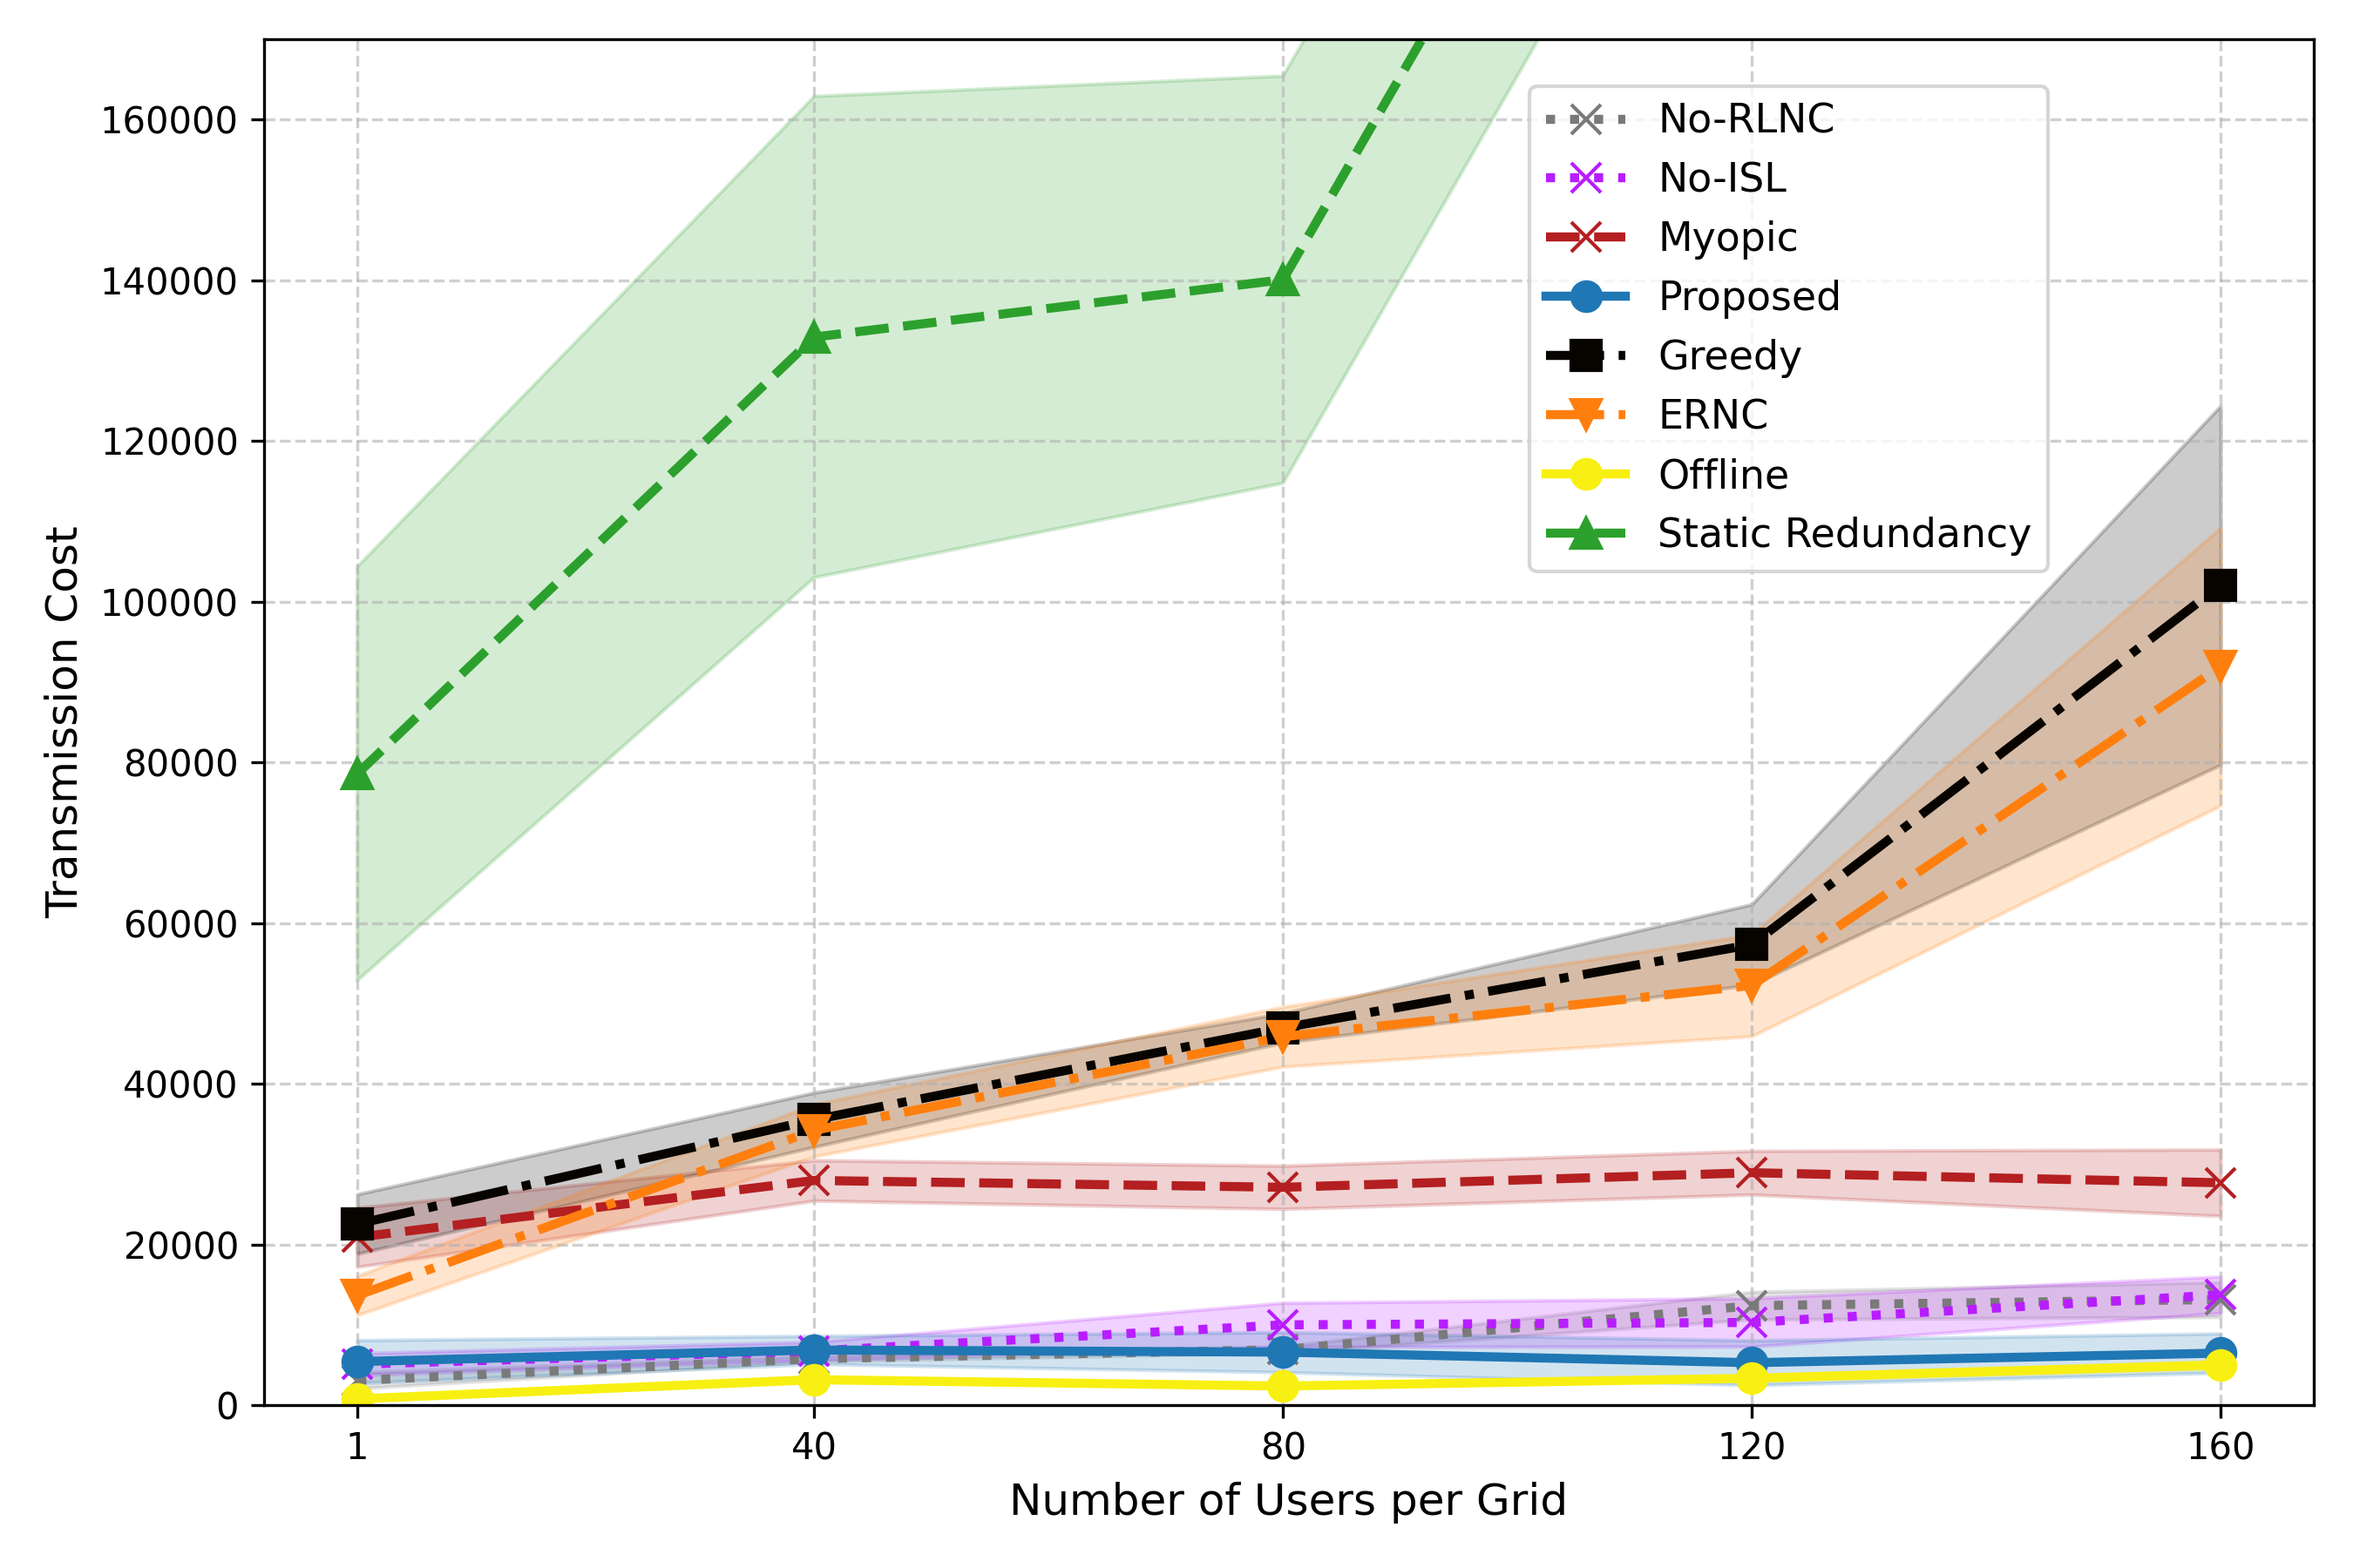
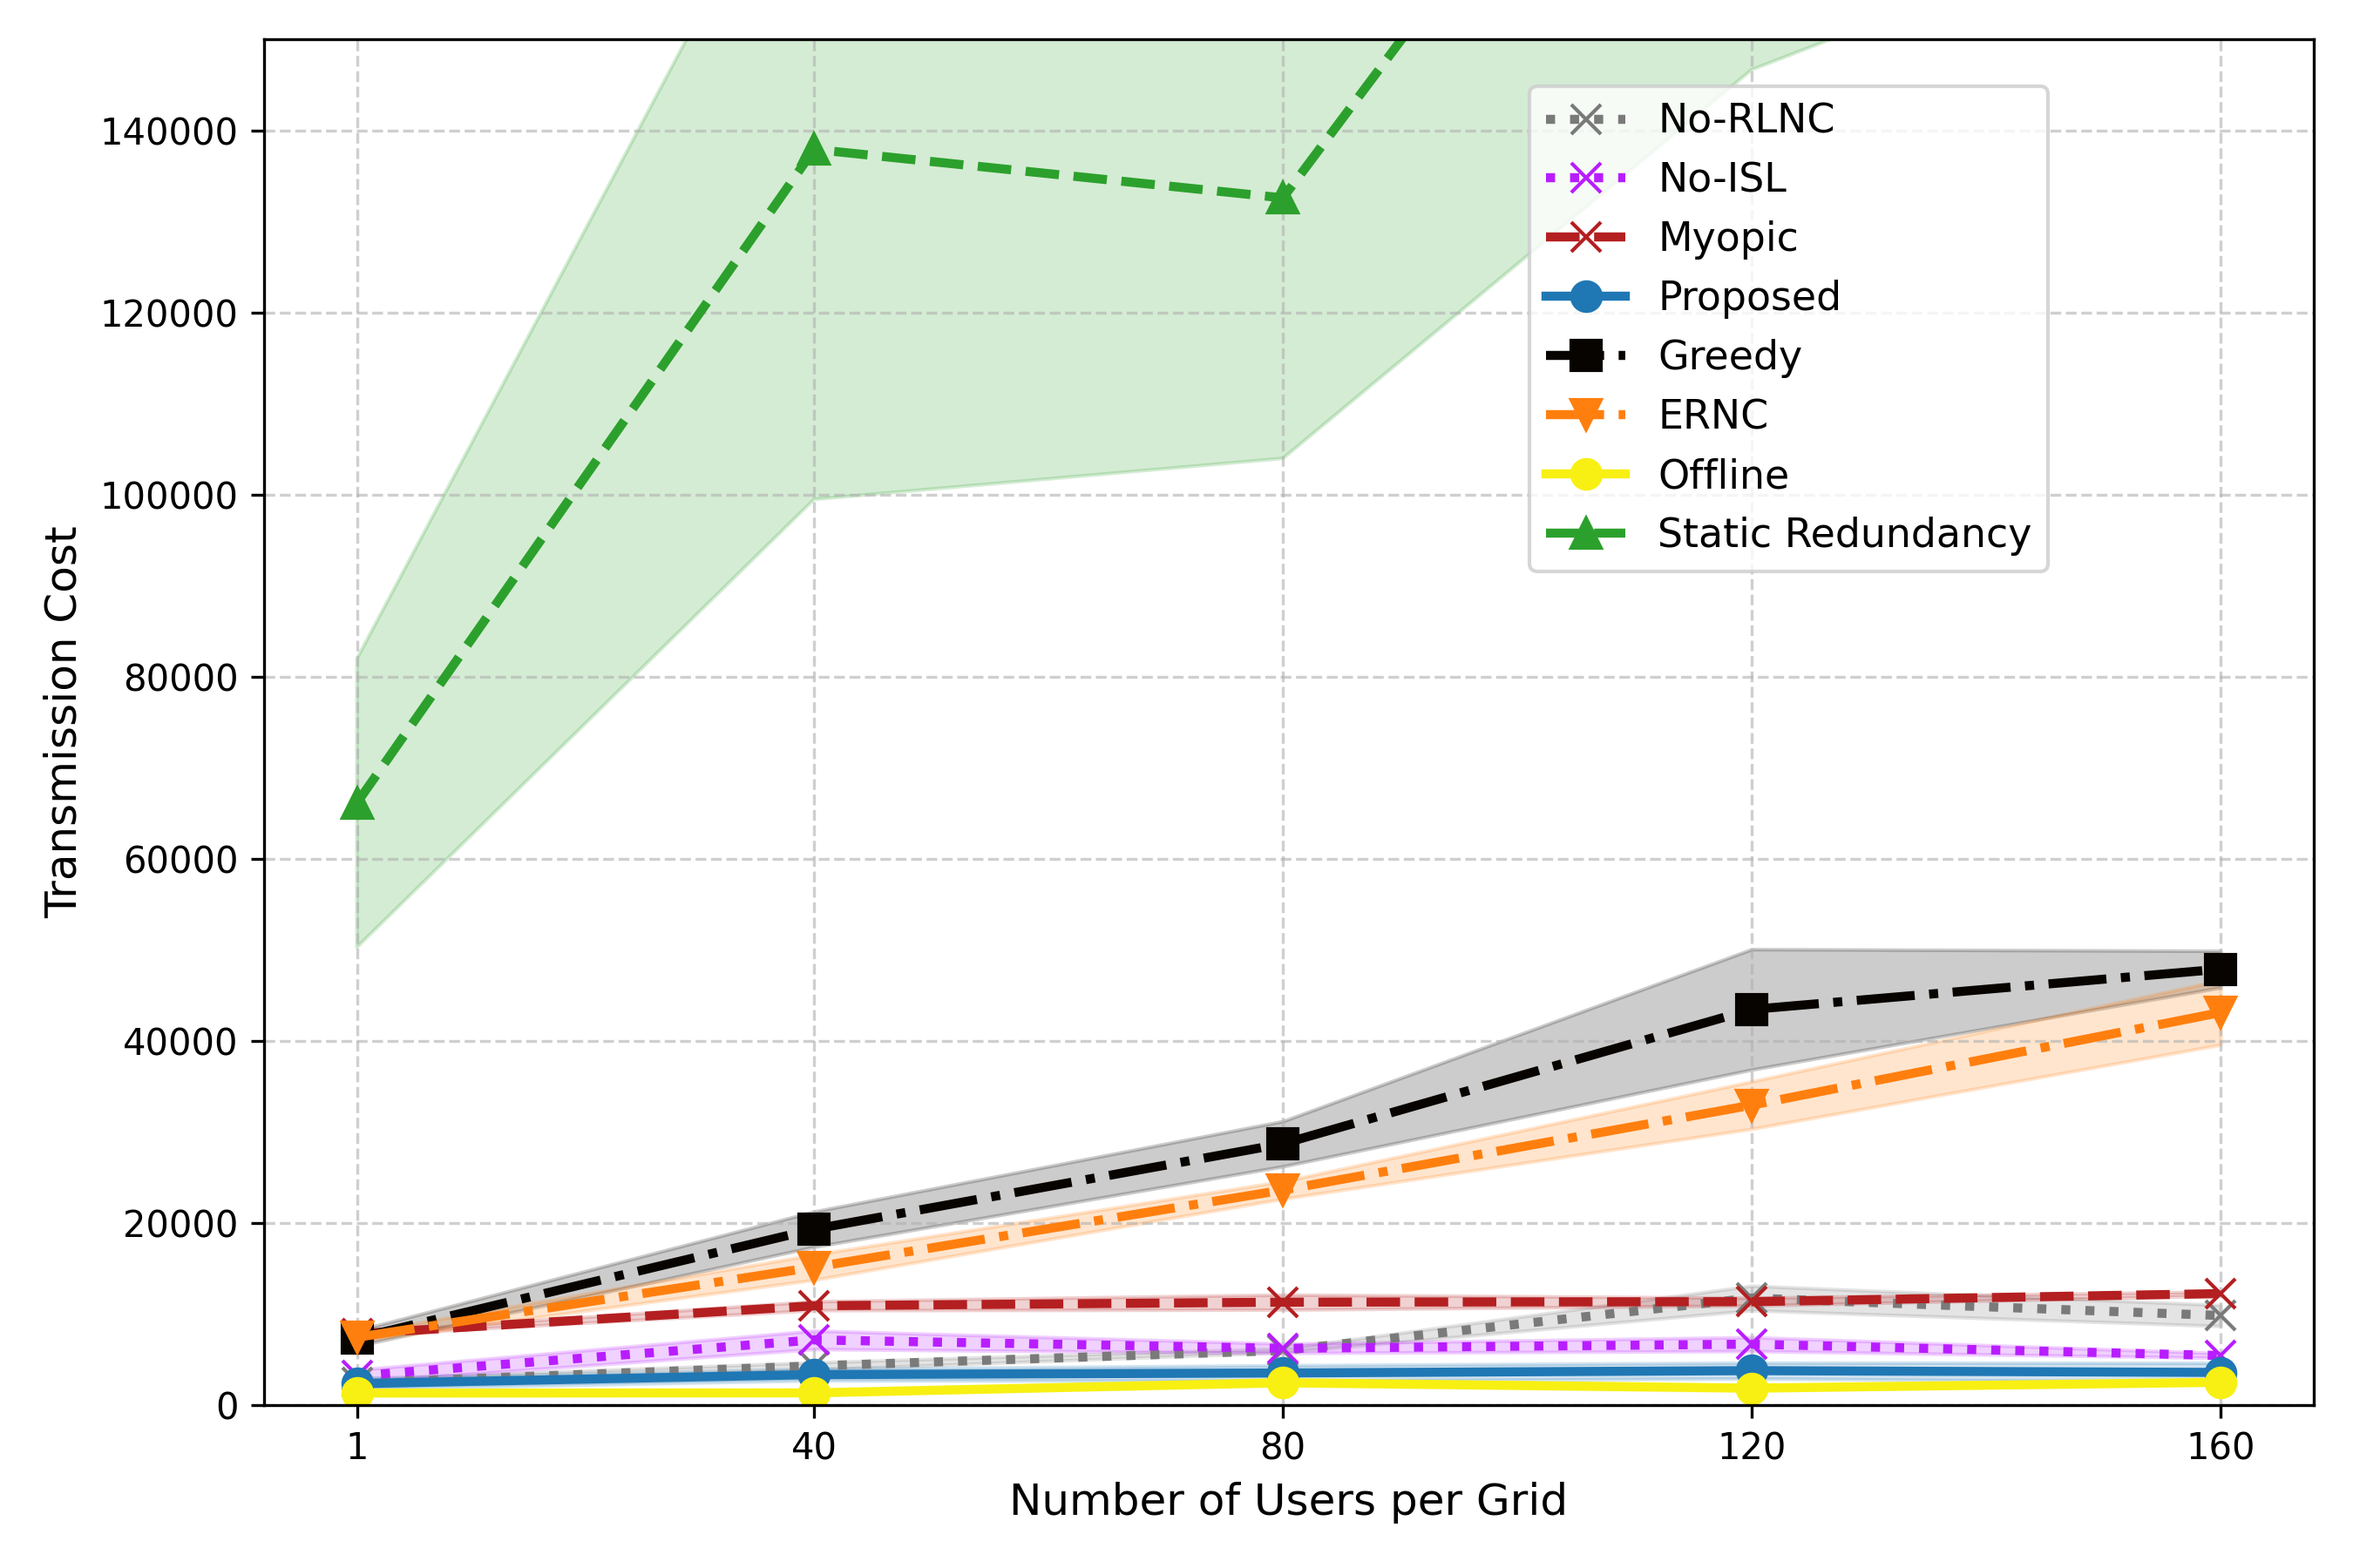
0601 progress

diff --git a/plot/plot_NUser_shaded.py b/plot/plot_NUser_shaded.py
@@ -41,28 +41,28 @@ OMEGA_T = "0.6"
 # ]
 
 # # starlink
-# ALGO_PREFIX = [
-#     "satellite_starlink_no_rlnc_checkpoints/MAPPO",
-#     "satellite_starlink_no_isl_checkpoints/MAPPO",
-#     "satellite_starlink_checkpoints/MYOTIC",
-#     "satellite_starlink_checkpoints/MAPPO",
-#     "satellite_starlink_checkpoints/GREEDY",
-#     "satellite_starlink_checkpoints/ERNC",
-#     "satellite_starlink_checkpoints/OFFLINE",
-#     "satellite_starlink_checkpoints/STATIC_R",
-# ]
+ALGO_PREFIX = [
+    "satellite_starlink_no_rlnc_checkpoints/MAPPO",
+    "satellite_starlink_no_isl_checkpoints/MAPPO",
+    "satellite_starlink_checkpoints/MYOTIC",
+    "satellite_starlink_checkpoints/MAPPO",
+    "satellite_starlink_checkpoints/GREEDY",
+    "satellite_starlink_checkpoints/ERNC",
+    "satellite_starlink_checkpoints/OFFLINE",
+    "satellite_starlink_checkpoints/STATIC_R",
+]
 
 # amazon
-ALGO_PREFIX = [
-    "satellite_amazon_no_rlnc_checkpoints/MAPPO",
-    "satellite_amazon_no_isl_checkpoints/MAPPO",
-    "satellite_amazon_checkpoints/MYOTIC",
-    "satellite_amazon_checkpoints/MAPPO",
-    "satellite_amazon_checkpoints/GREEDY",
-    "satellite_amazon_checkpoints/ERNC",
-    "satellite_amazon_checkpoints/OFFLINE",
-    "satellite_amazon_checkpoints/STATIC_R",
-]
+# ALGO_PREFIX = [
+#     "satellite_amazon_no_rlnc_checkpoints/MAPPO",
+#     "satellite_amazon_no_isl_checkpoints/MAPPO",
+#     "satellite_amazon_checkpoints/MYOTIC",
+#     "satellite_amazon_checkpoints/MAPPO",
+#     "satellite_amazon_checkpoints/GREEDY",
+#     "satellite_amazon_checkpoints/ERNC",
+#     "satellite_amazon_checkpoints/OFFLINE",
+#     "satellite_amazon_checkpoints/STATIC_R",
+# ]
 
 # Tw
 # ALGO_PREFIX = [
@@ -191,7 +191,7 @@ plt.ylabel('Transmission Cost', fontsize=12)
 # plt.ylabel('Completion Time', fontsize=12)
 
 # plt.xlim(1, 160)
-plt.ylim(0, 17e4)
+plt.ylim(0, 15e4)
 
 plt.xticks(TRUE_USER_NUMBERS)
 plt.grid(True, linestyle='--', alpha=0.6)

diff --git a/param.py b/param.py
@@ -38,7 +38,7 @@ TEST_DEFICIT_W4_  =  Const_Param(alt=540.0, inc=53.2, p=18, s=5,  t_max=90, targ
 TEST_DEFICIT_FUL_     =  Const_Param(alt=540.0, inc=53.2, p=3, s=5,  t_max=90, target_k=40)
 TEST_DEFICIT_FUL_W3_  =  Const_Param(alt=540.0, inc=53.2, p=3, s=5,  t_max=90, target_k=40, Tw=3)
 
-MY_CONST_NAME = "amazon"
+MY_CONST_NAME = "starlink"
 
 # Pareto 掃描的權重組合 [omega_t (時間), omega_c (能量)]
 PARETO_CONFIGS = [
